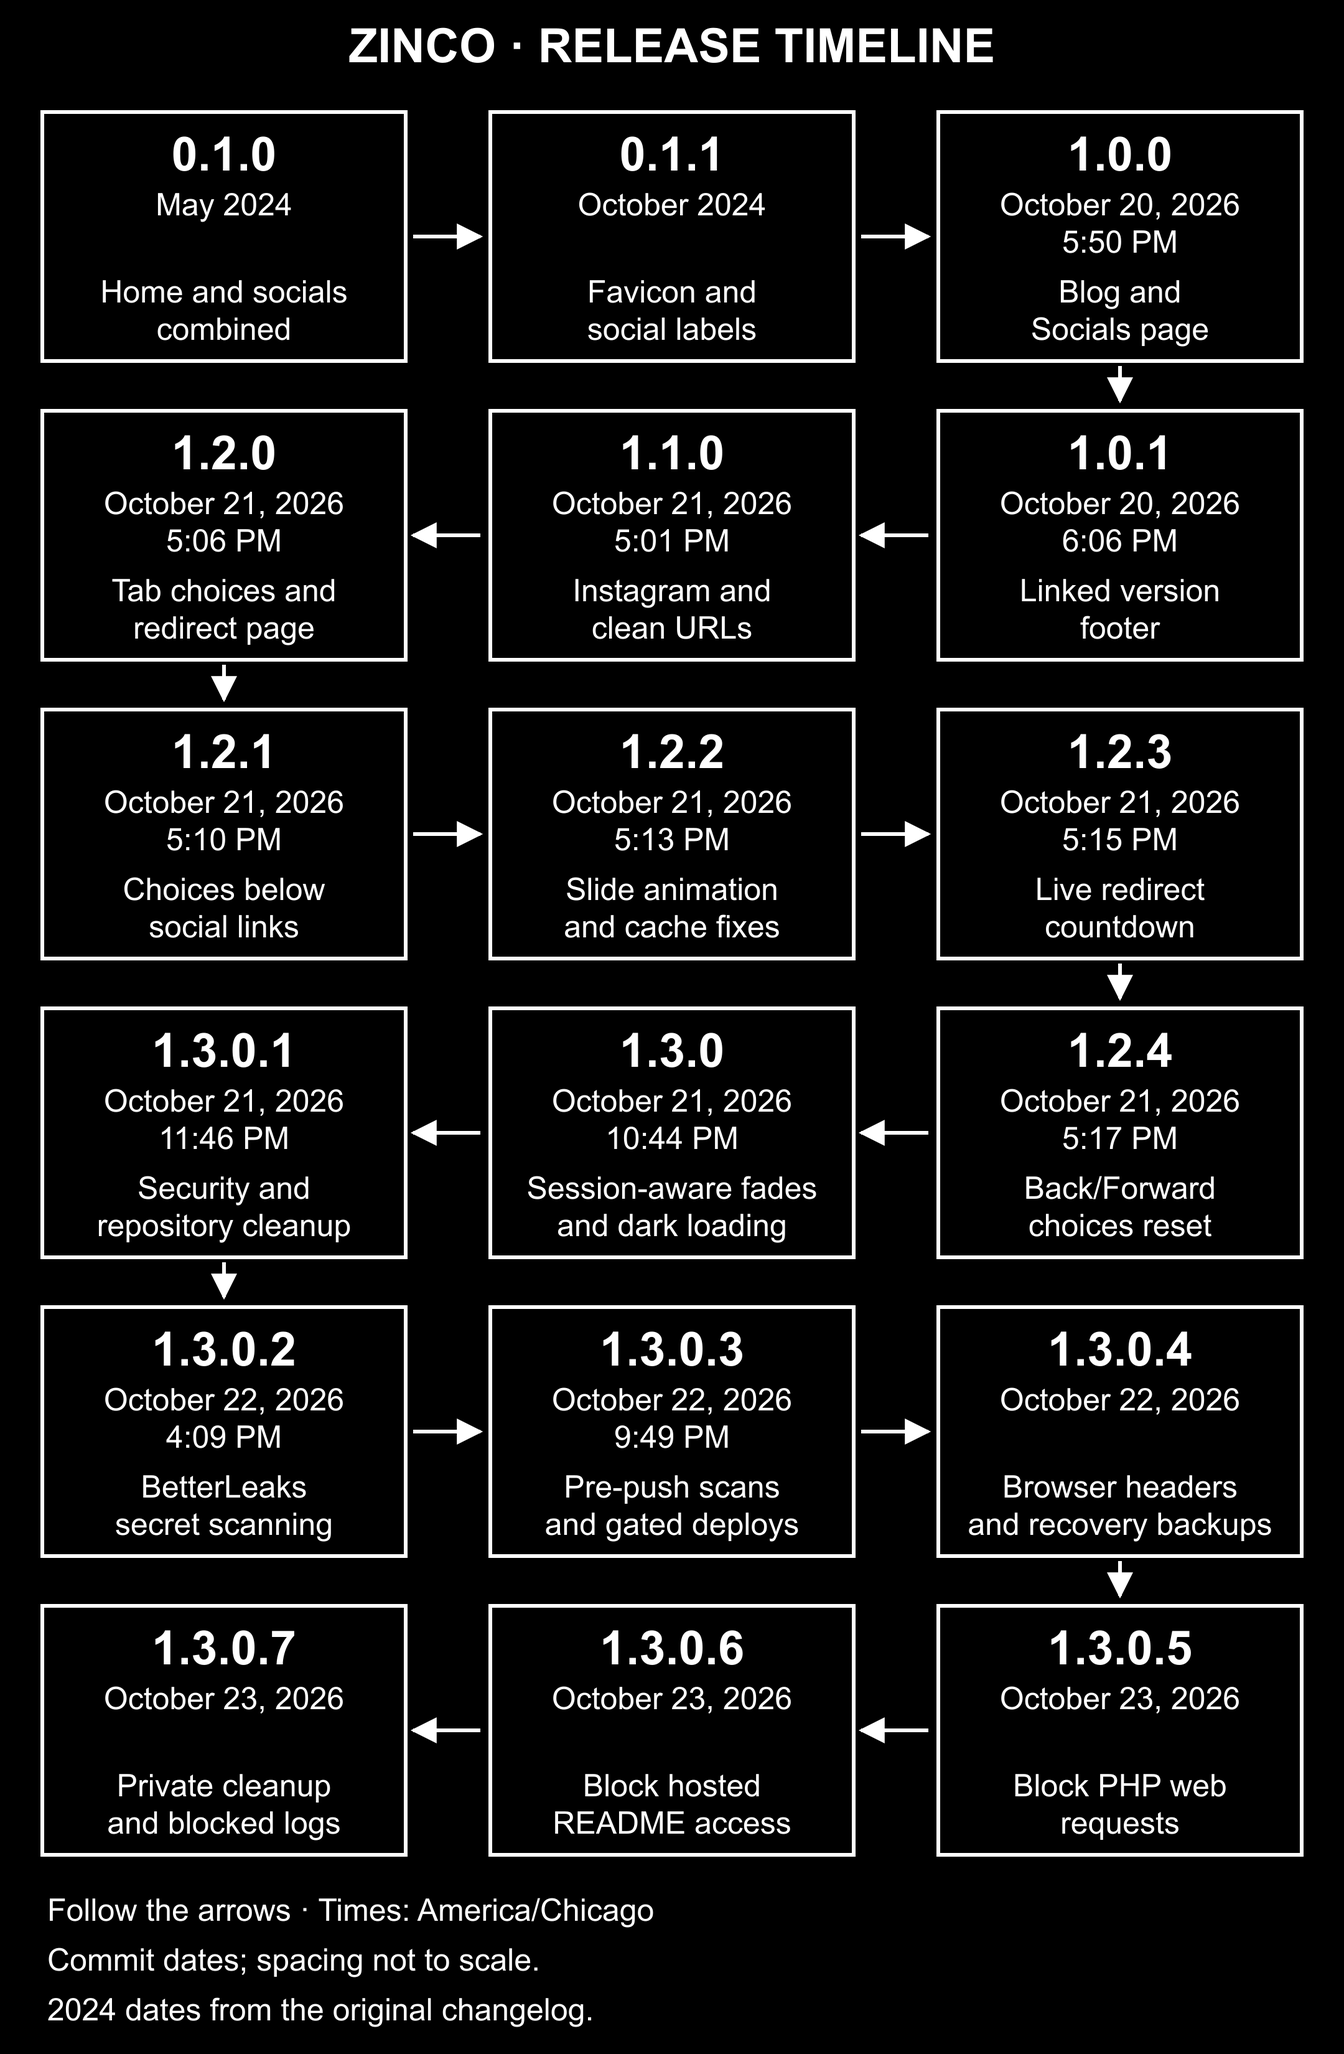
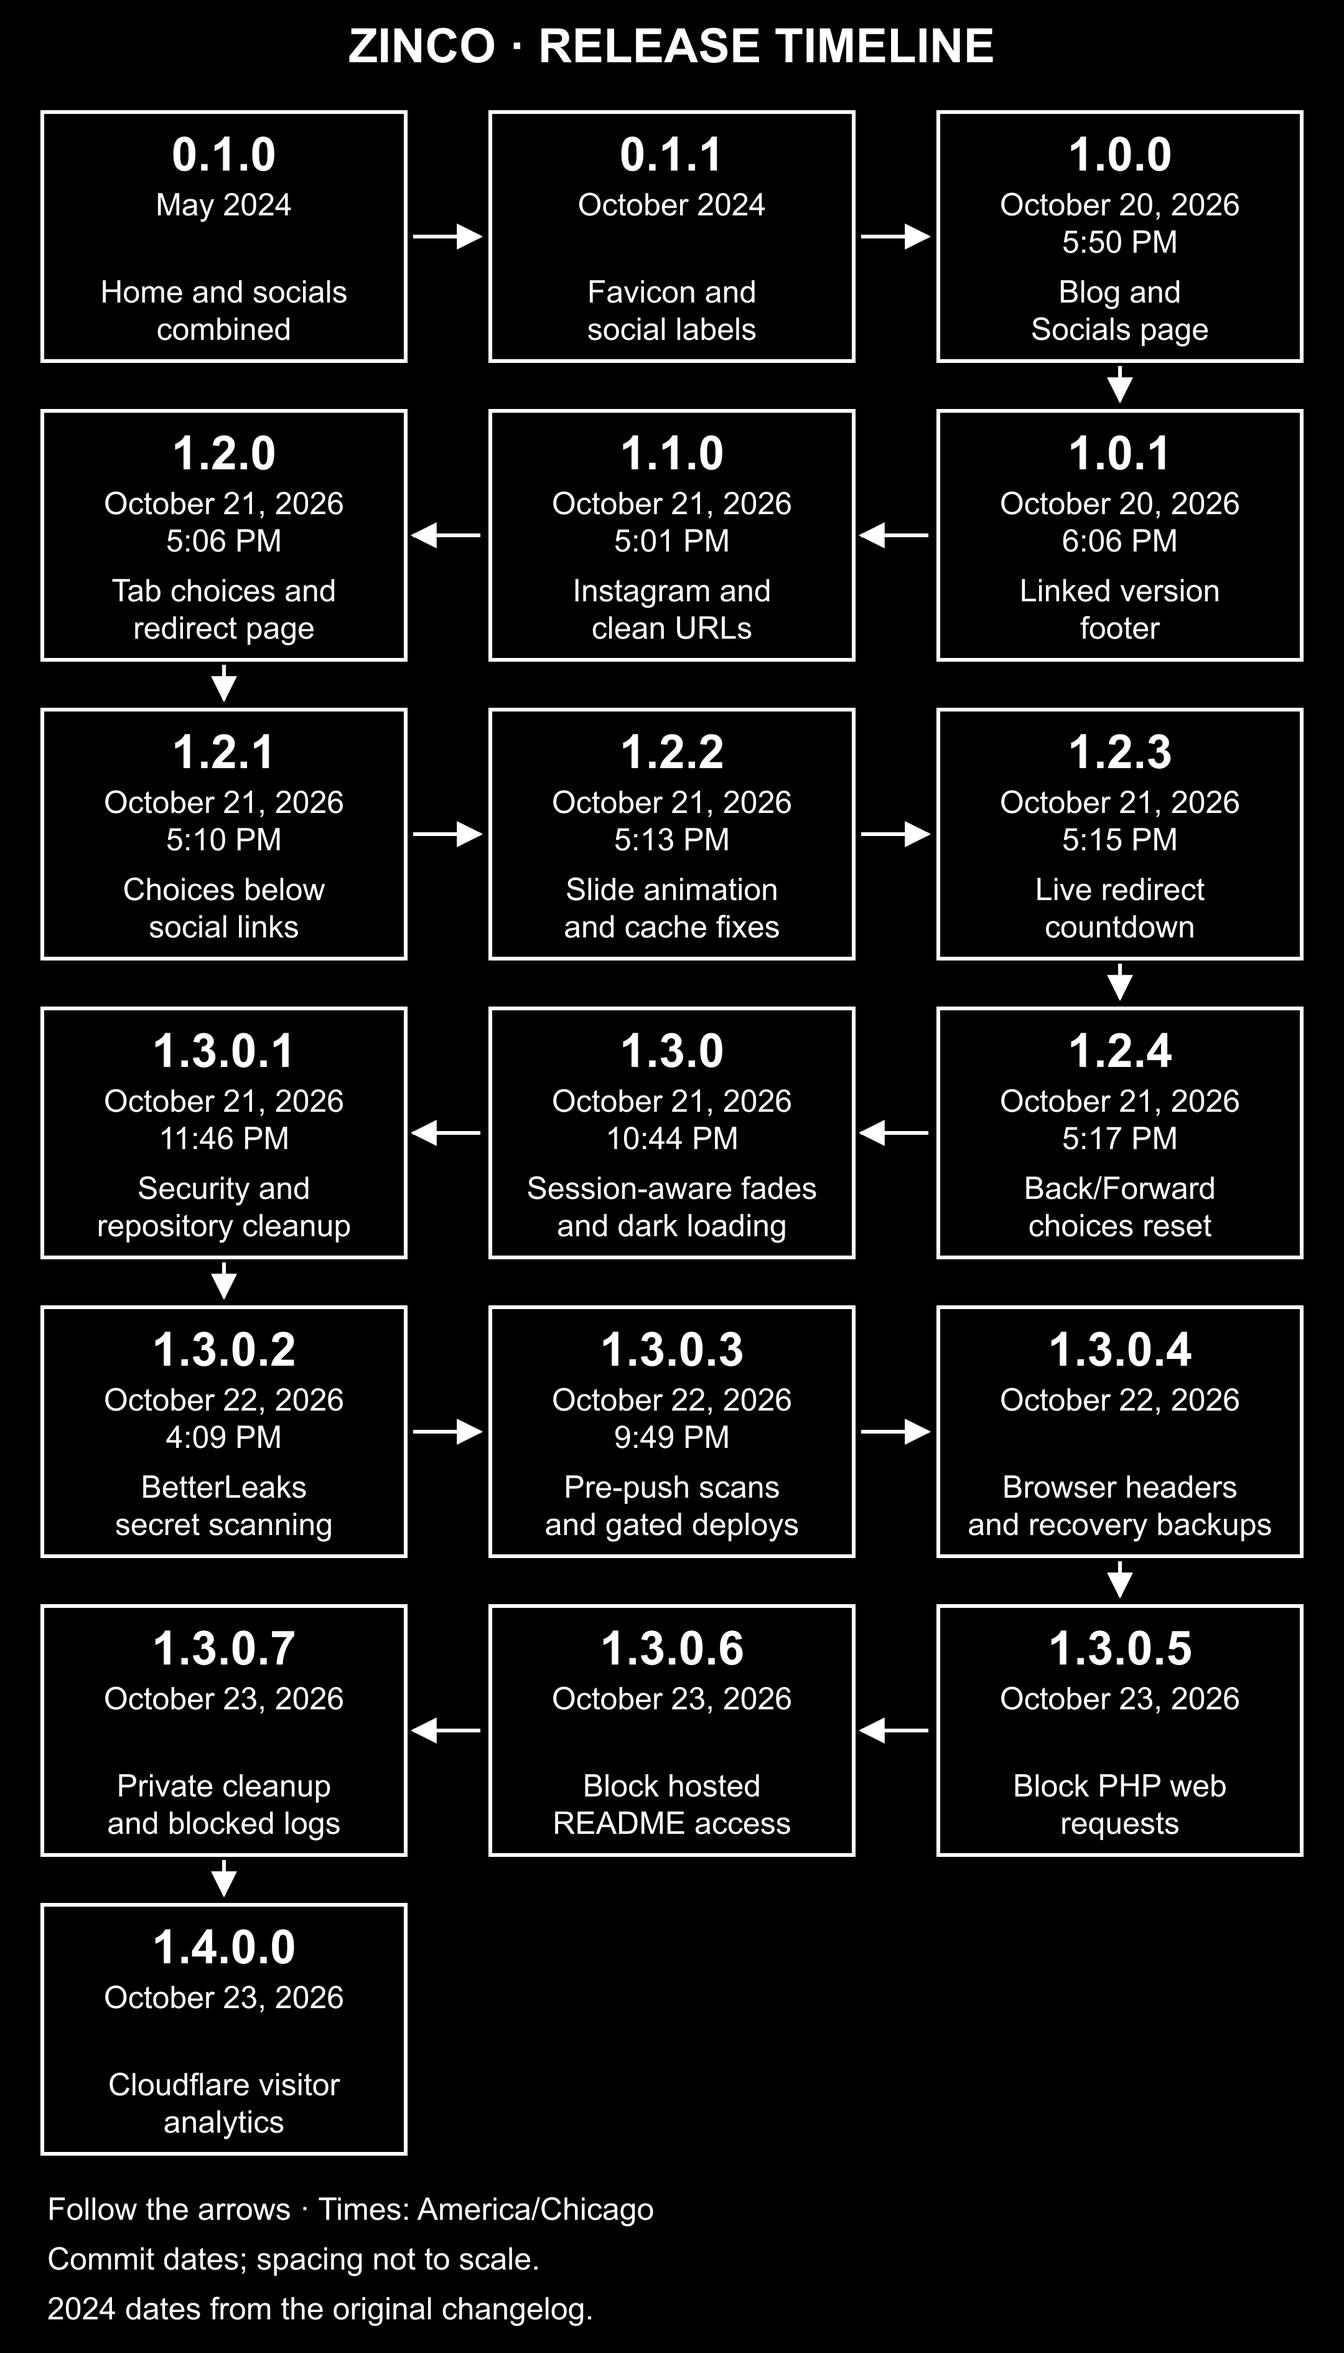
Add production-only Cloudflare visitor analytics

diff --git a/socials.html b/socials.html
@@ -49,8 +49,8 @@
     <meta name="description" content="Find ZINCO on Discord, TikTok, GitHub, Bluesky, X, YouTube, Twitch, and Instagram.">
     <title>Socials | ZINCO</title>
     <link rel="icon" href="images/favicon.ico">
-    <link rel="stylesheet" href="style.css?v=1.3.0.7">
-    <script src="social-links.js?v=1.3.0.7" defer></script>
+    <link rel="stylesheet" href="style.css?v=1.4.0.0">
+    <script src="social-links.js?v=1.4.0.0" defer></script>
 </head>
 <body class="socials-page">
     <main>
@@ -99,8 +99,9 @@
     </div>
     </main>
     <footer class="site-footer">
-        <a class="site-version" href="https://github.com/zincodrone/zinco.gay-website">v1.3.0.7</a>
+        <a class="site-version" href="https://github.com/zincodrone/zinco.gay-website">v1.4.0.0</a>
         <p class="footer-heart">🖤</p>
     </footer>
+    <!-- CLOUDFLARE_WEB_ANALYTICS -->
 </body>
 </html>

diff --git a/redirect.html b/redirect.html
@@ -12,8 +12,8 @@
     <meta name="robots" content="noindex">
     <title>Leaving ZINCO</title>
     <link rel="icon" href="images/favicon.ico">
-    <link rel="stylesheet" href="style.css?v=1.3.0.7">
-    <script src="social-links.js?v=1.3.0.7" defer></script>
+    <link rel="stylesheet" href="style.css?v=1.4.0.0">
+    <script src="social-links.js?v=1.4.0.0" defer></script>
 </head>
 <body>
     <main>
@@ -35,8 +35,9 @@
         </section>
     </main>
     <footer class="site-footer">
-        <a class="site-version" href="https://github.com/zincodrone/zinco.gay-website">v1.3.0.7</a>
+        <a class="site-version" href="https://github.com/zincodrone/zinco.gay-website">v1.4.0.0</a>
         <p class="footer-heart">🖤</p>
     </footer>
+    <!-- CLOUDFLARE_WEB_ANALYTICS -->
 </body>
 </html>

diff --git a/blog/welcome.html b/blog/welcome.html
@@ -30,7 +30,7 @@
     <meta name="description" content="Welcome to ZINCO's blog: a new home for thoughts and updates.">
     <title>Welcome! | ZINCO</title>
     <link rel="icon" href="../images/favicon.ico">
-    <link rel="stylesheet" href="../style.css?v=1.3.0.7">
+    <link rel="stylesheet" href="../style.css?v=1.4.0.0">
 </head>
 <body class="blog-page">
     <main>
@@ -52,8 +52,9 @@
         </article>
     </main>
     <footer class="site-footer">
-        <a class="site-version" href="https://github.com/zincodrone/zinco.gay-website">v1.3.0.7</a>
+        <a class="site-version" href="https://github.com/zincodrone/zinco.gay-website">v1.4.0.0</a>
         <p class="footer-heart">🖤</p>
     </footer>
+    <!-- CLOUDFLARE_WEB_ANALYTICS -->
 </body>
 </html>

diff --git a/blog/index.html b/blog/index.html
@@ -30,7 +30,7 @@
     <meta name="description" content="Thoughts, updates, and writing from ZINCO.">
     <title>Blog | ZINCO</title>
     <link rel="icon" href="../images/favicon.ico">
-    <link rel="stylesheet" href="../style.css?v=1.3.0.7">
+    <link rel="stylesheet" href="../style.css?v=1.4.0.0">
 </head>
 <body class="blog-page">
     <main>
@@ -54,8 +54,9 @@
         </section>
     </main>
     <footer class="site-footer">
-        <a class="site-version" href="https://github.com/zincodrone/zinco.gay-website">v1.3.0.7</a>
+        <a class="site-version" href="https://github.com/zincodrone/zinco.gay-website">v1.4.0.0</a>
         <p class="footer-heart">🖤</p>
     </footer>
+    <!-- CLOUDFLARE_WEB_ANALYTICS -->
 </body>
 </html>

diff --git a/index.html b/index.html
@@ -29,7 +29,7 @@
     <meta name="viewport" content="width=device-width, initial-scale=1.0">
     <title>ZINCO</title>
     <link rel="icon" href="images/favicon.ico">
-    <link rel="stylesheet" href="style.css?v=1.3.0.7">
+    <link rel="stylesheet" href="style.css?v=1.4.0.0">
 </head>
 <body class="home-page">
     <main>
@@ -55,8 +55,9 @@
     </main>
 
     <footer class="site-footer">
-        <a class="site-version" href="https://github.com/zincodrone/zinco.gay-website">v1.3.0.7</a>
+        <a class="site-version" href="https://github.com/zincodrone/zinco.gay-website">v1.4.0.0</a>
         <p class="footer-heart">🖤</p>
     </footer>
+    <!-- CLOUDFLARE_WEB_ANALYTICS -->
 </body>
 </html>

diff --git a/.github/scripts/deploy_cpanel.py b/.github/scripts/deploy_cpanel.py
@@ -2,7 +2,7 @@
 
 import json
 import os
-from pathlib import Path
+from pathlib import Path, PurePosixPath
 import re
 import sys
 import time
@@ -30,9 +30,14 @@ class CPanel:
         self.root = root
         self.opener = build_opener(NoRedirect())
 
-    def call(self, module, function, **params):
-        url = f"{self.base}/{module}/{function}?{urlencode(params)}"
-        request = Request(url, headers={
+    def call(self, module, function, _method="GET", **params):
+        url = f"{self.base}/{module}/{function}"
+        data = None
+        if _method == "POST":
+            data = urlencode(params).encode("utf-8")
+        else:
+            url += "?" + urlencode(params)
+        request = Request(url, data=data, headers={
             "Authorization": self.authorization,
             "Accept": "application/json",
         })
@@ -166,8 +171,55 @@ def verify_live(expected_commit, sleep=time.sleep):
     raise RuntimeError("cPanel reported success, but live verification failed: " + last_issue + ".")
 
 
+ANALYTICS_MARKER = "<!-- CLOUDFLARE_WEB_ANALYTICS -->"
+PUBLIC_PAGES = ("index.html", "socials.html", "redirect.html", "blog/index.html", "blog/welcome.html")
+
+
+def analytics_pages(identifier):
+    """Render production-only analytics without storing its identifier in Git."""
+    if not re.fullmatch(r"[a-f0-9]{32}", identifier):
+        raise RuntimeError("CLOUDFLARE_WEB_ANALYTICS_TOKEN must be the 32-character site identifier.")
+    snippet = ('<script type="module" src="https://static.cloudflareinsights.com/beacon.min.js" '
+               "data-cf-beacon='" + json.dumps({"token": identifier, "spa": False}, separators=(",", ":"))
+               + "'></script>")
+    pages = {}
+    for page in PUBLIC_PAGES:
+        html = Path(page).read_text(encoding="utf-8")
+        if html.count(ANALYTICS_MARKER) != 1 or "data-cf-beacon" in html:
+            raise RuntimeError("Each public HTML template must have exactly one inactive analytics marker.")
+        pages[page] = html.replace(ANALYTICS_MARKER, snippet)
+    return pages
+
+
+def install_analytics(client, pages):
+    domain = client.call("DomainInfo", "single_domain_data", domain="zinco.gay") or {}
+    root = PurePosixPath(domain.get("documentroot", ""))
+    if not root.is_absolute() or root.name != "public_html" or ".." in root.parts:
+        raise RuntimeError("cPanel did not return the expected public website directory.")
+    for page, html in pages.items():
+        target = root / page
+        result = client.call("Fileman", "save_file_content", _method="POST",
+                             dir=str(target.parent), file=target.name, content=html,
+                             from_charset="UTF-8", to_charset="UTF-8", fallback=0) or {}
+        if result.get("path") != str(target):
+            raise RuntimeError("cPanel did not confirm the expected analytics page path.")
+    print("Production analytics installed on all five public pages.", flush=True)
+
+
+def verify_analytics(identifier):
+    opener = build_opener(NoRedirect())
+    for path in ("/", "/socials", "/redirect", "/blog/", "/blog/welcome"):
+        with opener.open(Request("https://zinco.gay" + path,
+                                 headers={"Cache-Control": "no-cache"}), timeout=20) as response:
+            html = response.read().decode("utf-8")
+        if (html.count("data-cf-beacon=") != 1 or identifier not in html
+                or ANALYTICS_MARKER in html):
+            raise RuntimeError("A live page did not contain the expected production analytics beacon.")
+    print("Production analytics verified; identifiers were not printed.", flush=True)
+
+
 def main():
-    required = ("CPANEL_HOST", "CPANEL_USERNAME", "CPANEL_REPOSITORY_ROOT", "CPANEL_API_TOKEN")
+    required = ("CPANEL_HOST", "CPANEL_USERNAME", "CPANEL_REPOSITORY_ROOT", "CPANEL_API_TOKEN", "CLOUDFLARE_WEB_ANALYTICS_TOKEN")
     missing = [name for name in required if not os.environ.get(name, "").strip()]
     if missing:
         raise RuntimeError("Add these GitHub Actions repository secrets: " + ", ".join(missing))
@@ -178,9 +230,13 @@ def main():
         raise RuntimeError("CPANEL_API_TOKEN contains whitespace. Save only the generated token value in GitHub, not its label or accompanying text.")
     client = CPanel(os.environ["CPANEL_HOST"].strip(), os.environ["CPANEL_USERNAME"].strip(),
                     token, os.environ["CPANEL_REPOSITORY_ROOT"].strip())
+    identifier = os.environ["CLOUDFLARE_WEB_ANALYTICS_TOKEN"].strip()
+    pages = analytics_pages(identifier)
     expected = os.environ["EXPECTED_COMMIT"]
     deploy(client, expected)
+    install_analytics(client, pages)
     verify_live(expected)
+    verify_analytics(identifier)
 
 
 if __name__ == "__main__":
@@ -188,7 +244,7 @@ if __name__ == "__main__":
         main()
     except Exception as error:
         message = str(error)
-        for name in ("CPANEL_API_TOKEN", "CPANEL_REPOSITORY_ROOT", "CPANEL_USERNAME", "CPANEL_HOST"):
+        for name in ("CPANEL_API_TOKEN", "CPANEL_REPOSITORY_ROOT", "CPANEL_USERNAME", "CPANEL_HOST", "CLOUDFLARE_WEB_ANALYTICS_TOKEN"):
             value = os.environ.get(name, "").strip()
             if value:
                 message = message.replace(value, "[redacted]")

diff --git a/.github/scripts/check_site_security.py b/.github/scripts/check_site_security.py
@@ -25,11 +25,11 @@ def inline_hashes(root, tag):
 def content_security_policy(root):
     return "; ".join([
         "default-src 'none'",
-        "script-src 'self' " + " ".join(inline_hashes(root, "script")),
+        "script-src 'self' https://static.cloudflareinsights.com/beacon.min.js " + " ".join(inline_hashes(root, "script")),
         "script-src-attr 'none'",
         "style-src 'self' " + " ".join(inline_hashes(root, "style")),
         "style-src-attr 'none'",
-        "img-src 'self' data:", "font-src 'self'", "connect-src 'none'",
+        "img-src 'self' data:", "font-src 'self'", "connect-src https://cloudflareinsights.com/cdn-cgi/rum",
         "object-src 'none'", "base-uri 'none'", "form-action 'none'",
         "frame-ancestors 'none'",
     ])

diff --git a/README.md b/README.md
@@ -23,7 +23,7 @@ GitHub's server-side secret scanning and push protection were confirmed enabled 
 
 ### Browser and hosting protections
 
-The deployed `.htaccess` disables directory listings and sets a Content Security Policy that permits local assets and only the exact inline scripts and styles used by the site. It also blocks framing, disables MIME sniffing, limits referrer information, disables unused device permissions, and enables HTTPS-only browsing for one week after a secure visit. The HTTPS policy applies to this hostname only; it does not include subdomains or preload registration.
+The deployed `.htaccess` disables directory listings and sets a Content Security Policy that permits local assets, the Cloudflare Web Analytics beacon script and reporting endpoint, and only the exact inline scripts and styles used by the site. It also blocks framing, disables MIME sniffing, limits referrer information, disables unused device permissions, and enables HTTPS-only browsing for one week after a secure visit. The HTTPS policy applies to this hostname only; it does not include subdomains or preload registration.
 
 PHP-family requests are denied in the public website directory, including mixed-case names, double extensions, and extra path segments. This static site does not need PHP. This is an HTTP access restriction, not removal or account-wide disabling of PHP. Hosting-managed cPanel and Webmail routes can bypass the website directory rules and remain separate.
 
@@ -32,6 +32,14 @@ Direct access to `README.md` is denied on the hosted website, including differen
 Diagnostic `.log` files, `error_log`, repository metadata directories, and the hosting SSL helper log directory are denied over HTTP. Certificate-validation and SSL status files remain available for hosting automation. Old web-root Git metadata, the stale README and error log, and 17 obsolete graphics were moved to an owner-only private recovery folder outside `public_html`; no files were permanently deleted. Current deployment uses a separate private checkout.
 
 When changing inline HTML scripts or styles, run `python .github/scripts/check_site_security.py --update`, review the generated policy, and test the site. The security workflow checks those hashes before allowing deployment. Existing fades, the GIF background, social choices, and redirects must continue working under the policy.
+
+### Visitor analytics
+
+All five deployed pages include the free [Cloudflare Web Analytics](https://developers.cloudflare.com/web-analytics/about/) module beacon. View page views, visits, referrers, devices, and performance metrics in your Cloudflare account under **Web Analytics → zinco.gay**. It uses manual snippet installation; hosting remains on Namecheap and DNS remains on PremiumDNS. No PHP or Cloudflare proxy is required.
+
+The beacon's site identifier is kept out of Git in the `CLOUDFLARE_WEB_ANALYTICS_TOKEN` Actions secret and inserted into the five deployed pages by the deployment job. Source templates and local previews contain only an inactive marker, so preview visits do not affect production statistics. Use the GitHub deployment workflow: a direct cPanel-only deployment restores the inactive templates. The identifier is necessarily public in the live page source, so this does not prevent fabricated traffic. It is not a Cloudflare API key and does not grant access to your account or reports. Never put account API credentials in the website. The browser policy allows only the beacon script URL and the HTTPS reporting endpoint, without adding unsafe inline script execution or wildcard origins. SPA measurement is disabled for this multipage site.
+
+Cloudflare receives the measurements; this is third-party visitor analytics, separate from GitHub clone/security monitoring. No custom event or social-click tracking is configured. Historical AWStats data is not imported. Statistics start after installation, may take a few minutes to appear, and can undercount visits when JavaScript or analytics requests are blocked. [Collection details](https://developers.cloudflare.com/web-analytics/data-metrics/data-origin-and-collection/).
 
 ### Maintenance
 
@@ -65,7 +73,7 @@ Each new clone needs this setup; Git does not automatically enable tracked hooks
 
 # Changelog
 
-Current version: **1.3.0.7**.
+Current version: **1.4.0.0**.
 
 New releases use `major.minor.patch.security`: major for substantial redesigns or changes that break existing behavior, minor for new features, patch for ordinary fixes or small maintenance updates, and security for security updates and related cleanup. Increment the applicable number and reset every number to its right to zero. After `1.3.0.1`, another security update would be `1.3.0.2`, an ordinary patch would be `1.3.1.0`, a new feature would be `1.4.0.0`, and a major release would be `2.0.0.0`. When changes span categories, use the highest applicable component.
 
@@ -77,7 +85,14 @@ Every update must update this README and the website version together, including
 
 Follow the arrows from the earliest release to the latest, snaking across each row. Times are in America/Chicago and reflect when each version was committed, not when it was deployed to the live website. The 2024 entries retain the months recorded in the original changelog; exact release days were not recorded there. Spacing between releases is not to scale.
 
-![Snaking release timeline from version 0.1.0 through 1.3.0.7](images/changelog-timeline-snake.png)
+![Snaking release timeline from version 0.1.0 through 1.4.0.0](images/changelog-timeline-snake.png)
+
+## 1.4.0.0 — October 23, 2026 (minor update)
+
+- Added free Cloudflare Web Analytics to Home, Socials, the blog listing, the welcome post, and the redirect page.
+- Allowed the specific analytics script and reporting endpoint in the generated Content Security Policy while preserving existing browser and hosting protections.
+- Kept the site identifier out of Git using deployment-only injection from an Actions secret; local previews do not send analytics. Documented dashboard access, collection limitations, and the separate scope of visitor analytics versus repository monitoring.
+- Kept Namecheap hosting and PremiumDNS, updated every page and asset cache version, and refreshed the release timeline.
 
 ## 1.3.0.7 — October 23, 2026 (security update)
 
